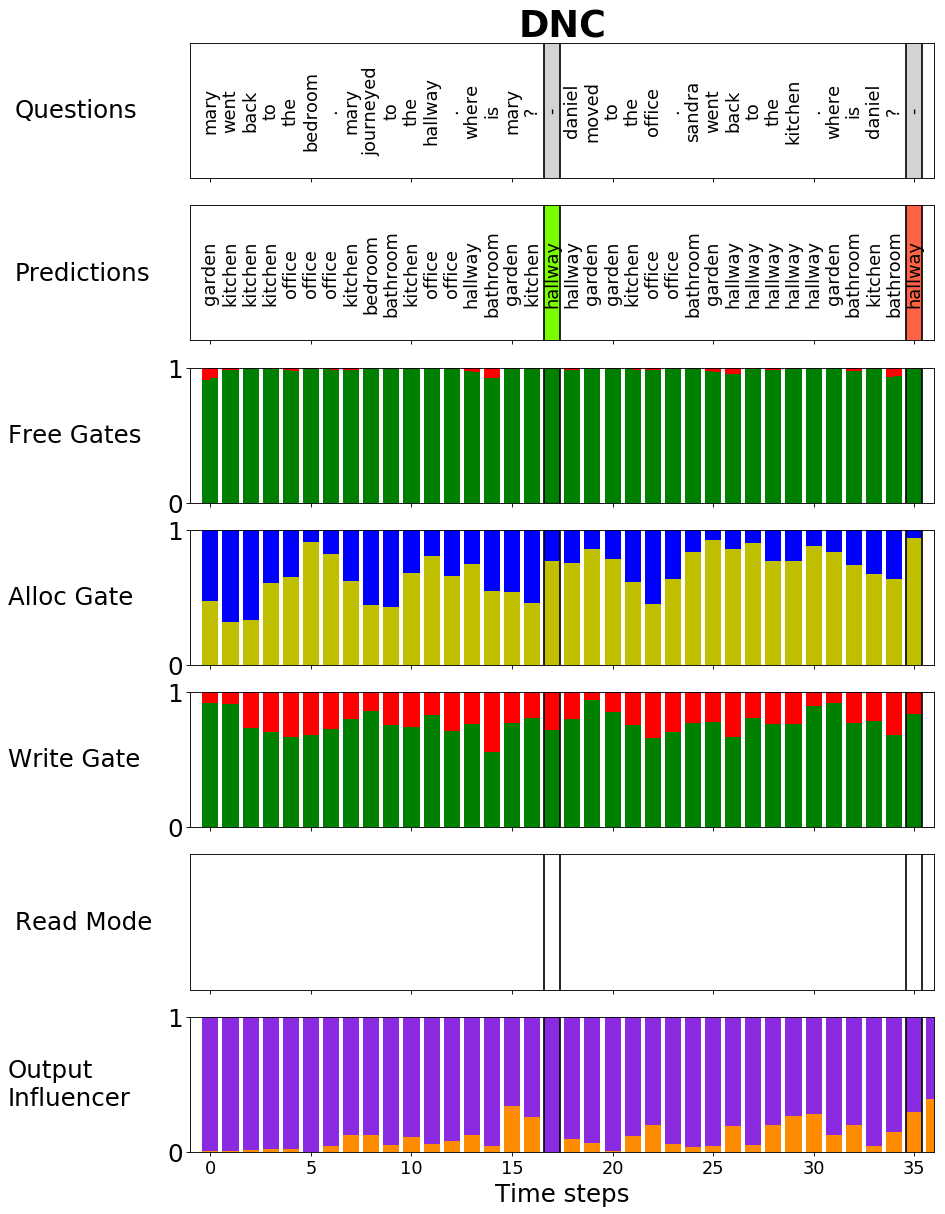
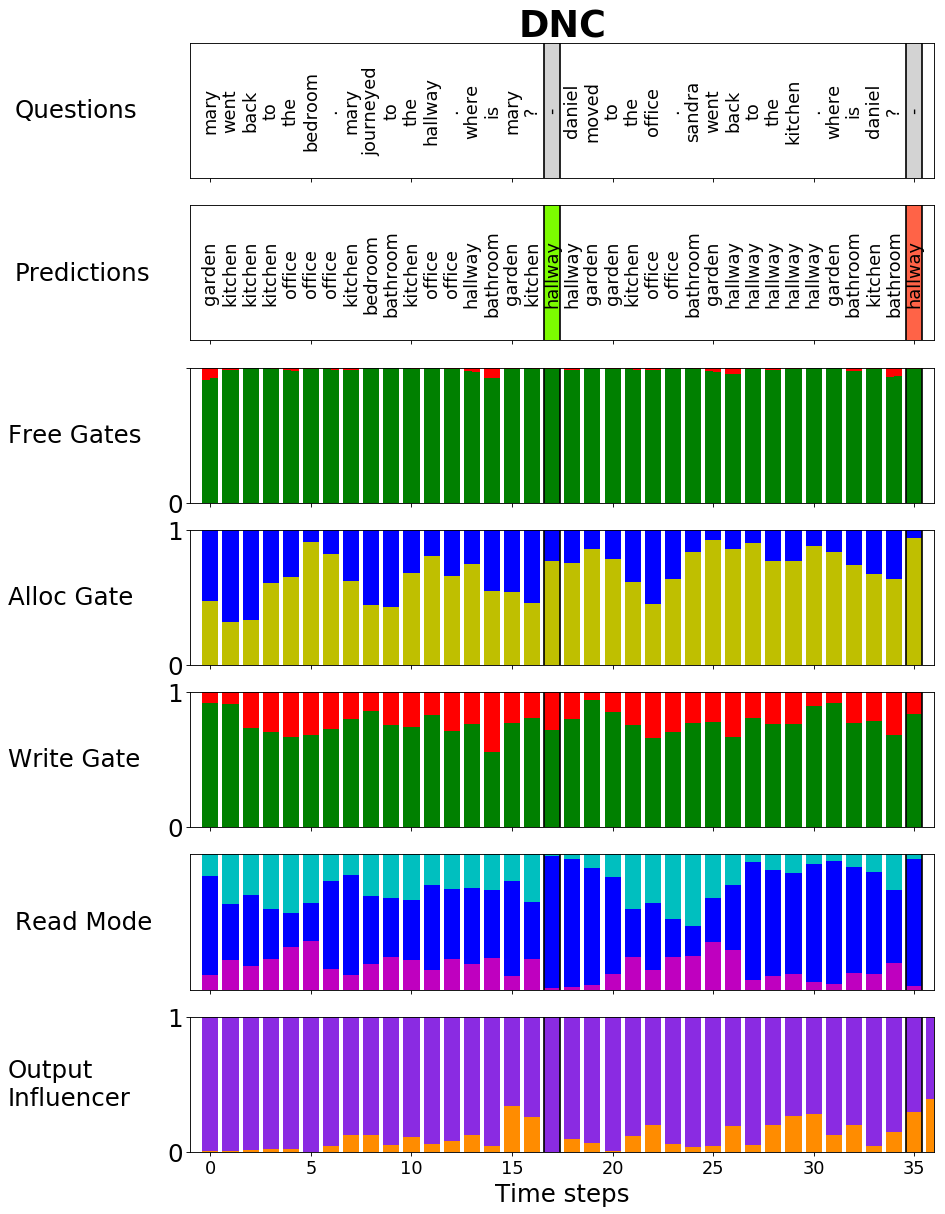
update babi plot functions

Changed region(s): [[0.2148, 0.701, 0.982, 0.8229]]

diff --git a/scripts/plot_function_babi_task.py b/scripts/plot_function_babi_task.py
@@ -45,7 +45,8 @@ plot_dir = "experiments/"
 
 
 analyse = True
-BATCH_SIZE = 1
+BATCH_SIZE = 10
+BATCH_SAMPLE = 2
 
 
 # load config from file
@@ -101,8 +102,8 @@ with tf.Session(config=conf) as sess:
     babi_bucket = Bucket(save_list, babi_short=True)
 
     plotter = PlotFunctionality(babi_bucket, title=True, legend=True, text_size=22)
-    plotter.plot_short_process(batch=0, plot_dir=plot_dir, name='function plot {}'.format(model_name))
-    # plot_advanced_functionality(batch=0, plot_dir=plot_dir, name='extended function plot {}'.format(model_name))
+    plotter.plot_short_process(batch=BATCH_SAMPLE, plot_dir=plot_dir, name='function plot {}'.format(model_name))
+    # plot_advanced_functionality(batch=BATCH_SAMPLE, plot_dir=plot_dir, name='extended function plot {}'.format(model_name))
 
 
 

diff --git a/README.md b/README.md
@@ -4,6 +4,8 @@
 [![Python](https://img.shields.io/badge/python-3.5+-yellow.svg)](https://www.python.org/downloads/release/python-365/)
 [![TensorFLow](https://img.shields.io/badge/TensorFlow-1.8-yellow.svg)](https://www.tensorflow.org/)
 
+*This repository is under construction and some comments and functions are missing.*
+
 This repository contains a implementation of a Differentiable Neural Computer (DNC) with advancements for a more robust and 
 scalable usage in Question Answering. It is applied to:
 - [20 bAbI QA tasks](https://research.fb.com/downloads/babi/) with [state-of-the-art results](#babi-results)
@@ -111,10 +113,11 @@ It starts a bAbI training and plots every epoch a function plot to control the t
 
 ### Plots
 
-To plot a function plot of the bAbI task -> t.b.a.
+To plot a function plot of the bAbI task choose pre-trained model e.g. `adnc` and run:
 
 `python scripts/plot_function_babi_task.py`
 					
+Possible models are `dnc`, `adnc`, `biadnc` on bAbi Task 1 and `biadnc-all`, `biadnc-aug16-all` for all bAbI tasks with or without augmentation of task 16.
 
 
 
